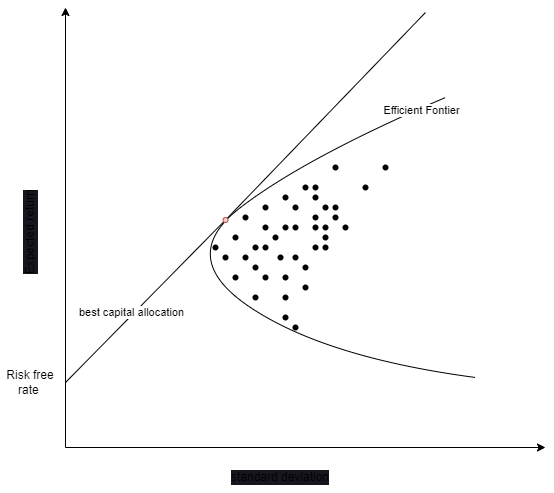
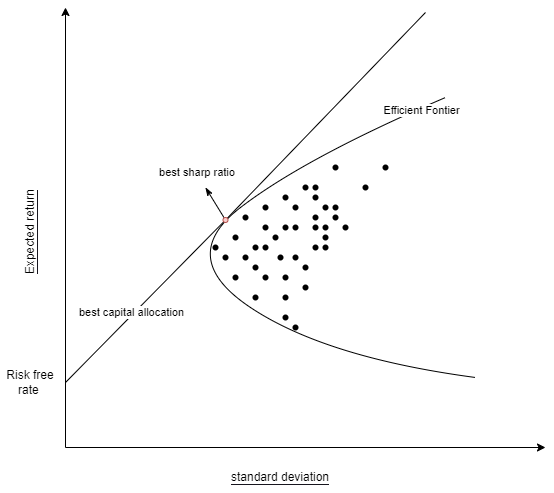
update docs

Changed region(s): [[0.3989, 0.9432, 0.6137, 1.0], [0.0307, 0.3651, 0.0921, 0.5781], [0.2762, 0.3347, 0.4296, 0.426]]

diff --git a/docs/src/man/Theory.md b/docs/src/man/Theory.md
@@ -2,63 +2,94 @@
 In this subsection each financial planning tool is fully explained. 
 ## Modern Portfolio Theory (MPT)
 
-Modern Portfolio Theory is all about minimizing the variance of the portfolio while taking into account the return with some risk-preference. We therefore need to calculate first the returns of each stock and the covariance matrix of the portfolio. 
+Modern Portfolio Theory is all about minimizing the variance of the portfolio while taking into account the return with some risk-preference. We therefore need to calculate first the returns of the portfolio and the covariance matrix of the portfolio. 
 
 
-The variance of the portfolio can be expressed as follows : 
+The expected return of the portfolio is calculated: 
+```math 
+E(R_P) = \sum_iw_iE(R_i)
+```
 
-``\sigma^2_P  = \sum_i\sum_j w_iw_j\sigma_i\sigma_j\rho_{ij}``
+where $R_P$ is the return of the portfolio, $R_i$ is the return on the asset $i$ and $W_i$ is the weight of asset $i$ in the portfolio is equal to $\sum_i w_i = 1$.  
+Next, the variance of the portfolio can be expressed as follows : 
 
-$w_i$ is the weight of asset $i$ in the portfolio such that  $\sum_i w_i = 1$
+```math
+\sigma^2_P  = \sum_i\sum_j w_iw_j\sigma_i\sigma_j\rho_{ij}
+```
+In matrix notation this becomes: 
 
-in matrix notation becomes 
-
-``\sigma^2_P =  w'\Sigma w  `` 
-
-Then,  the expected return of the portfolio is calculated: ``E(R_P) = \sum_iw_iE(R_i)``
-
-where $R_P$ is the return on the portfolio, $R_i$ is the return on the asset $i$. 
+```math
+\sigma^2_P =  w'\Sigma w  
+``` 
 
 What we want to know is that for a given number of stocks which combinations is the most preferential. To achieve this we minimize the variance and take into account our risk-preference $P$ with respect to returns *based on some historic data*. 
 We therefore minimize the following cost function: 
 
-`` Min(w'\Sigma w - P * E[R_p]) $$ 
+```math 
+Min(w'\Sigma w - P * E[R_p]) 
+```
 
 given the following constraints: 
 
-`` w_1 + w_2 + ... + w_{n-1} + w_{n} =1  ``
+```math
+ w_1 + w_2 + ... + w_{n-1} + w_{n} =1
+```
 
-`` 0> w_i > 1  ``
+```math
+ 0> w_i > 1  
+```
 
 We solve this optimal design problem using the [Interior point Newton algorithm](https://en.wikipedia.org/wiki/Interior-point_method) from the [Optim.jl package](https://julianlsolvers.github.io/Optim.jl/stable/#)
 
 The only parameter is our risk-preference $P$. For each risk-preference $P$ there is an optimal combination of stock that minimizes our cost function. This creates the efficient frontier 
 
 ### The efficient frontier 
-The upward sloped portion of the hyperbola is the efficient frontier as you will get the maximum amount of return with the least amount of variance for your portfolio. 
+The upward sloped portion of the hyperbola is the efficient frontier. It reflects the best *expected* level of return for its level of ris as you will get the maximum amount of return with the least amount of variance for your portfolio. 
 
-![risk](images/efficient_frontier.png)
-
-
+ ![risk](images/efficient_frontier.png) 
 
 
 ### Sharp ratio 
+We can use the sharp ratio to see how well the return of the portfolio/asset compensates you for the risk that you take. The sharp ratio does however not take into account all risks involved as the same limitations apply here as in the tool. 
 
-`` S_P = \frac{E[R_P - R_{f}]}{\sigma_P} `` 
+
+```math 
+ S_P = \frac{E[R_P - R_{b}]}{\sigma_P} 
+``` 
+
+where $R_b$ is the return of the baseline "risk-free" product. 
 ### Limitations 
+
+There are three main limitation to this tool. The first limitation is that the MPT is a historical measurement of the portfolio performance. It does not say anything about future performance of the portfolio. Different Macro-economic situations might lead to total different end results. The second issue is that the tool is based on the expected return and variance of the portfolio. This captures the risk return relationship quite well but it does not take into account [skewness](https://en.wikipedia.org/wiki/Skewness) and [tail risk](https://en.wikipedia.org/wiki/Tail_risk). It therefore gives rise to a reduced volatility and an inflated growth rate for a portfolio. Lastly, the risk measurement is probabilistic in nature. It does not reflect the structural roots of the risk. For example, the risk of a stock are off a total different nature then that of a commodity, but to tool will still account for them the same way. 
+
+
 
 ### Adaptations 
 
-#### Post-Modern Portfolio Theory (PMPT)
+The cost function can be altered if the function stays convex. We can therefore adapt our cost function to account for more precise measurements of risk. One of the most popular adaptions is the Post-Modern Portfolio Theory (PMPT). 
+
+The current tool only implements the MPT. Future work will enable PMPT and other adaptions to be made possible. 
+
+
+### Recommendations of usage 
+Never use this tool for individual stock picking and never but then also never rely *only* on the MPT. Always do your due diligence before creating your portfolio and again this is no way or form financial advice. 
+
+So why should you use this tool and for what purpose? It is highly recommended to use this tool with exchange traded funds (ETF) as these products are already substantially diversified and issue two of the MPT is therefore greatly diminished. Also, the structural risk that certain ETF are exposed is difficult the estimate and the MPT can help you gain insights into which ETF have less or more risk compared to the returns they offer. Lastly, MPT also works better if you invest in all assets classes as each class has risks of a different nature and you are then therefore not fully exposed to one particular kind of risk. 
+
+To know which portfolio weights you should apply, you have to understand your risk preference. If you do not want to take a lot of risk, it is beneficial to look at optimal portfolio's with low value in $P$. The reverse is true for people who are risk seeking. 
+
+
+# to be developed 
+
+#### Post-Modern Portfolio Theory 
 
 ##### Sortino ratio 
-
 
 ## Captial asset pricing model (CAPM) 
 
 ### adaptations 
 
-
+## Optimal control of spending, saving and investment 
 
 
 

diff --git a/docs/src/man/financial_planning_tools.md b/docs/src/man/financial_planning_tools.md
@@ -102,8 +102,12 @@ DataFrameRow
 
 ### limitations 
 
-* based on expected values 
-    * not capture the skewed distribution of risk and return , gives rise to reduced volatility and inflated growth of return 
-* historical measurement 
-    * future might not be the same as the past 
-* risk measurement is probabilistic in nature, not structural. 
+There are three main limitation to this tool. The first limitation is that the MPT is a historical measurement of the portfolio performance. It does not say anything about future performance of the portfolio. Different Macro-economic situations might lead to total different end results. The second issue is that the tool is based on the expected return and variance of the portfolio. This captures the risk return relationship quite well but it does not take into account [skewness](https://en.wikipedia.org/wiki/Skewness) and [tail risk](https://en.wikipedia.org/wiki/Tail_risk). It therefore gives rise to a reduced volatility and an inflated growth rate for a portfolio. Lastly, the risk measurement is probabilistic in nature. It does not reflect the structural roots of the risk. For example, the risk of a stock are off a total different nature then that of a commodity, but to tool will still account for them the same way. 
+
+
+### Recommendations of usage 
+Never use this tool for individual stock picking and never but then also never rely *only* on the MPT. Always do your due diligence before creating your portfolio and again this is no way or form financial advice. 
+
+So why should you use this tool and for what purpose? It is highly recommended to use this tool with exchange traded funds (ETF) as these products are already substantially diversified and issue two of the MPT is therefore greatly diminished. Also, the structural risk that certain ETF are exposed is difficult the estimate and the MPT can help you gain insights into which ETF have less or more risk compared to the returns they offer. Lastly, MPT also works better if you invest in all assets classes as each class has risks of a different nature and you are then therefore not fully exposed to one particular kind of risk. 
+
+To know which portfolio weights you should apply, you have to understand your risk preference. If you do not want to take a lot of risk, it is beneficial to look at optimal portfolio's with low value in $P$. The reverse is true for people who are risk seeking. 

diff --git a/docs/src/man/glossary.md b/docs/src/man/glossary.md
@@ -1,0 +1,12 @@
+# Glossary 
+
+The glossary is intented to give you an overview of all the financial jargon needed to understand the financial planning tools. 
+
+
+## Exchange traded fund 
+
+## stock 
+
+## asset class 
+
+##
